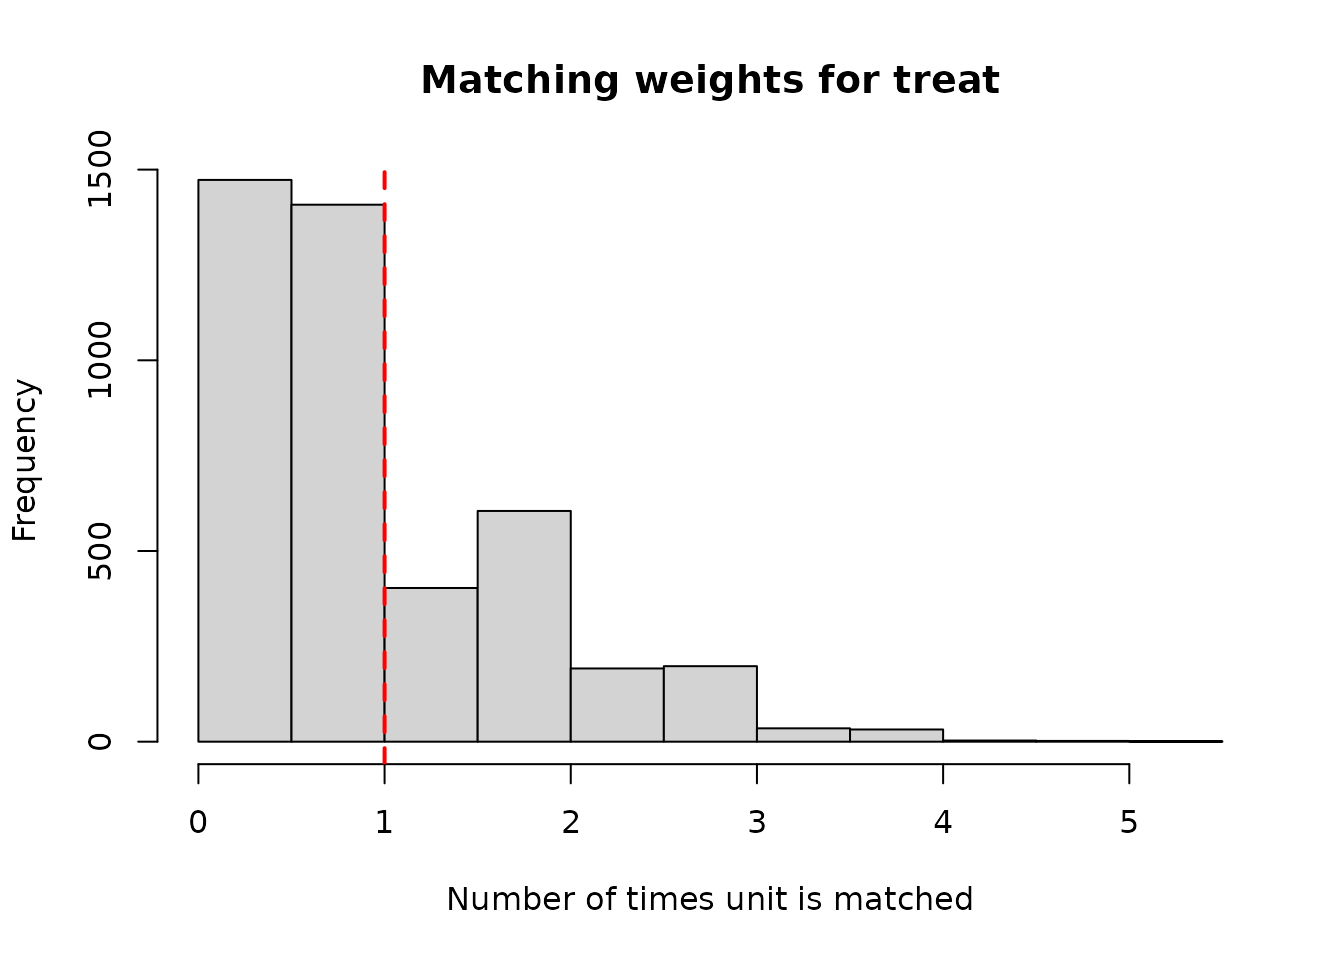
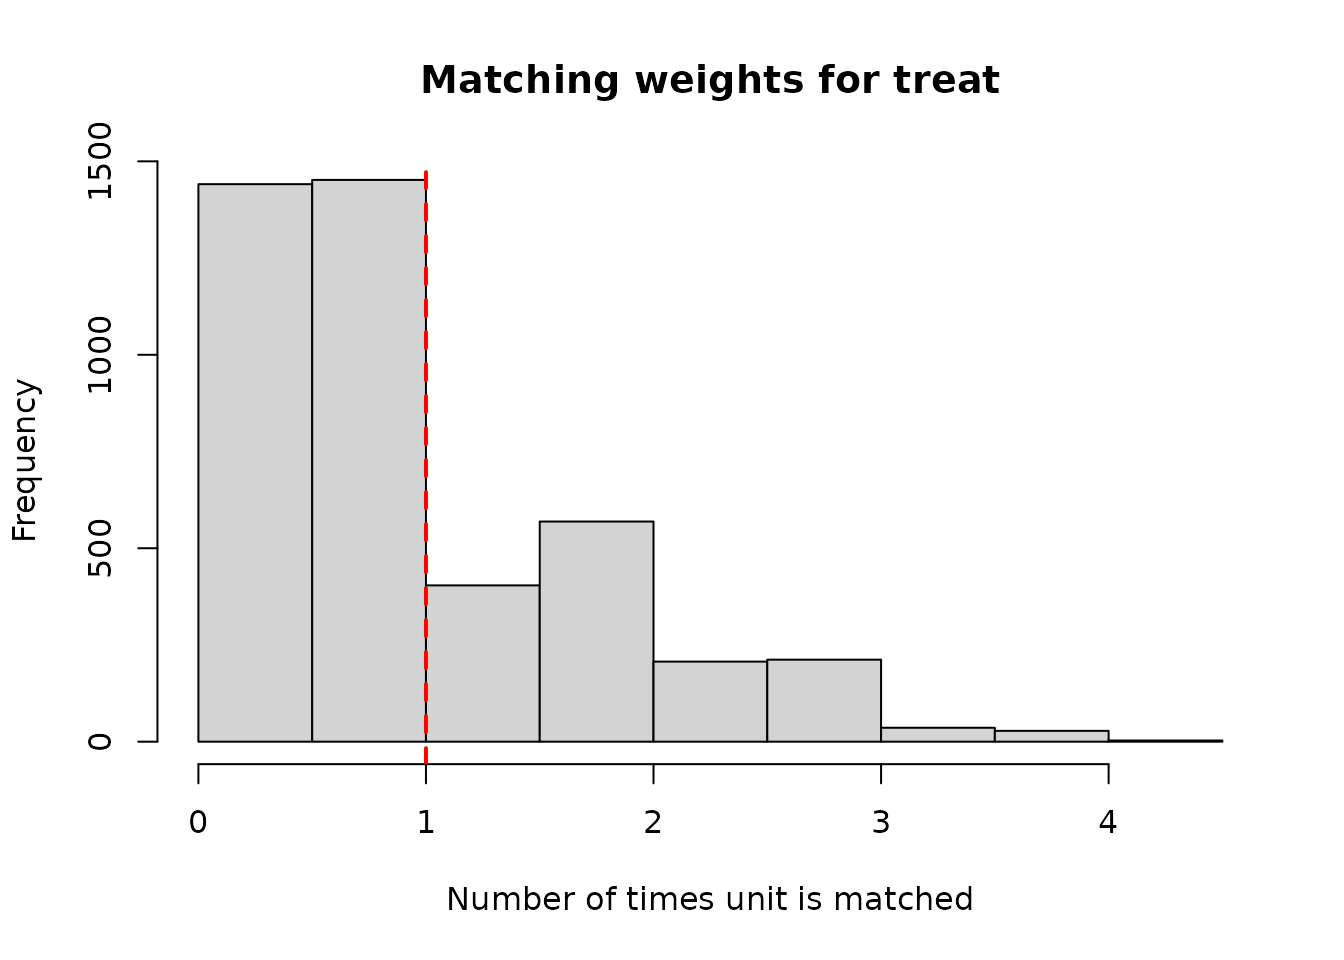
Built site for DirectEffects: 0.2.9000@2c09e21

diff --git a/articles/telescope_matching.html b/articles/telescope_matching.html
@@ -76,7 +76,7 @@
   <main id="main"><div class="page-header">
       <img src="../logo.png" class="logo" alt=""><h1>Telescope matching</h1>
             
-            <h4 data-toc-skip class="date">2021-12-11</h4>
+            <h4 data-toc-skip class="date">2021-12-16</h4>
       
       <small class="dont-index">Source: <a href="https://github.com/mattblackwell/DirectEffects/blob/HEAD/vignettes/articles/telescope_matching.Rmd" class="external-link"><code>vignettes/articles/telescope_matching.Rmd</code></a></small>
       <div class="d-none name"><code>telescope_matching.Rmd</code></div>
@@ -179,38 +179,38 @@ ACDE = E[Y_i(1, 0) - Y_i(0,0)]
 <span class="co">## </span>
 <span class="co">## Matching summary:</span>
 <span class="co">##          Term Matching Ratio L:1 N == 1 N == 0 Matched == 1 Matched == 0</span>
-<span class="co">## 1       treat                  3   2801   1551         2275         1547</span>
-<span class="co">## 2 work2year2q                  3   2559   1793         1376         1515</span>
+<span class="co">## 1       treat                  3   2801   1551         2265         1545</span>
+<span class="co">## 2 work2year2q                  3   2559   1793         1363         1521</span>
 <span class="co">## </span>
 <span class="co">## </span>
 <span class="co">## Summary of units matching contributions:</span>
 <span class="co">##                   Min.   1st Qu.    Median Mean  3rd Qu.       Max.</span>
-<span class="co">## treat                0 0.3333333 0.6666667    1 1.333333   5.333333</span>
-<span class="co">## treat:work2year2q    0 0.0000000 0.3333333    1 1.000000 120.555556</span>
-<span class="co">## work2year2q          0 0.0000000 0.3333333    1 1.333333  69.000000</span>
+<span class="co">## treat                0 0.3333333 0.6666667    1 1.333333   4.333333</span>
+<span class="co">## treat:work2year2q    0 0.0000000 0.3333333    1 1.000000 115.666667</span>
+<span class="co">## work2year2q          0 0.0000000 0.3333333    1 1.333333  75.666667</span>
 <span class="co">## </span>
 <span class="co">## </span>
 <span class="co">## Estimated controlled direct effects of treat:</span>
 <span class="co">##                   work2year2q Estimate Estimate (no BC) Std. Err.</span>
-<span class="co">## (1, 0) vs. (0, 0)           0 -0.09081         -0.08137   0.05101</span>
-<span class="co">## (1, 1) vs. (0, 1)           1  0.02167          0.02162   0.02260</span></code></pre>
+<span class="co">## (1, 0) vs. (0, 0)           0 -0.10315         -0.09385   0.05207</span>
+<span class="co">## (1, 1) vs. (0, 1)           1  0.04509          0.04506   0.02223</span></code></pre>
 <div class="sourceCode" id="cb11"><pre class="downlit sourceCode r">
 <code class="sourceCode R"><span class="co"># The coefficients + SE can be accessed directly as well</span>
 <span class="va">tm_out</span><span class="op">$</span><span class="va">tau</span> <span class="co"># Point estimate</span></code></pre></div>
-<pre><code><span class="co">## [1] -0.09081093  0.02166866</span></code></pre>
+<pre><code><span class="co">## [1] -0.1031497  0.0450908</span></code></pre>
 <div class="sourceCode" id="cb13"><pre class="downlit sourceCode r">
 <code class="sourceCode R"><span class="va">tm_out</span><span class="op">$</span><span class="va">tau_se</span> <span class="co">#Standard error</span></code></pre></div>
-<pre><code><span class="co">## [1] 0.05100768 0.02259839</span></code></pre>
+<pre><code><span class="co">## [1] 0.0520653 0.0222314</span></code></pre>
 <p>Additional diagnostics can be conducted by calling the <code><a href="../reference/balance.tmatch.html">balance.tmatch()</a></code> function on the returned <code>tmatch</code> object to assess the change in pre-/post-matching covariate balance in both the first and second stages.</p>
 <div class="sourceCode" id="cb15"><pre class="downlit sourceCode r">
 <code class="sourceCode R"><span class="co">## Assess mediator balance on selected pre- and post- treatment covariates</span>
 <span class="fu"><a href="../reference/balance.tmatch.html">balance.tmatch</a></span><span class="op">(</span><span class="va">tm_out</span>, vars <span class="op">=</span> <span class="va">work2year2q</span> <span class="op">~</span> <span class="va">schobef</span> <span class="op">+</span> <span class="va">emplq4</span>,
                data <span class="op">=</span> <span class="va">jobcorps_female</span><span class="op">)</span></code></pre></div>
 <pre><code><span class="co">##         variable  before_0  before_1   after_0   after_1 before_sd  before_diff</span>
-<span class="co">## schobef  schobef 0.6352482 0.6287612 0.7046569 0.6314338 0.4824714 -0.006486953</span>
+<span class="co">## schobef  schobef 0.6352482 0.6287612 0.7045803 0.6314338 0.4824714 -0.006486953</span>
 <span class="co">## emplq4    emplq4 0.1996654 0.7198124 0.4774050 0.5056679 0.5000270  0.520147061</span>
 <span class="co">##         before_std_diff  after_diff after_std_diff</span>
-<span class="co">## schobef     -0.01344526 -0.07322304    -0.15176659</span>
+<span class="co">## schobef     -0.01344526 -0.07314645    -0.15160784</span>
 <span class="co">## emplq4       1.04023787  0.02826287     0.05652268</span></code></pre>
 <div class="sourceCode" id="cb17"><pre class="downlit sourceCode r">
 <code class="sourceCode R"><span class="co">## Assess treatment balance on selected pre-treatment covariates</span>
@@ -218,10 +218,10 @@ ACDE = E[Y_i(1, 0) - Y_i(0,0)]
                data <span class="op">=</span> <span class="va">jobcorps_female</span><span class="op">)</span></code></pre></div>
 <pre><code><span class="co">##              variable   before_0   before_1    after_0    after_1 before_sd</span>
 <span class="co">## trainyrbef trainyrbef 0.01676338 0.01713674 0.01700368 0.01700368 0.1292996</span>
-<span class="co">## hhsize         hhsize 4.54094133 4.53802213 4.56142770 4.52581189 2.2087850</span>
-<span class="co">##              before_diff before_std_diff  after_diff after_std_diff</span>
-<span class="co">## trainyrbef  0.0003733584     0.002887544  0.00000000     0.00000000</span>
-<span class="co">## hhsize     -0.0029191932    -0.001321629 -0.03561581    -0.01612462</span></code></pre>
+<span class="co">## hhsize         hhsize 4.54094133 4.53802213 4.50222120 4.53040748 2.2087850</span>
+<span class="co">##              before_diff before_std_diff after_diff after_std_diff</span>
+<span class="co">## trainyrbef  0.0003733584     0.002887544 0.00000000     0.00000000</span>
+<span class="co">## hhsize     -0.0029191932    -0.001321629 0.02818627     0.01276099</span></code></pre>
 <p>Calling the <code><a href="../reference/plotDiag.tmatch.html">plotDiag.tmatch()</a></code> function will return a histogram of the number of times each unit is used as a match (<span class="math inline">\(K/L\)</span>) in either the first (mediator) stage or the second (treatment) stage.</p>
 <div class="sourceCode" id="cb19"><pre class="downlit sourceCode r">
 <code class="sourceCode R"><span class="co"># Number of times each unit is used as a match in the mediator (first) stage</span>

diff --git a/articles/DirectEffects.html b/articles/DirectEffects.html
@@ -76,7 +76,7 @@
   <main id="main"><div class="page-header">
       <img src="../logo.png" class="logo" alt=""><h1>Estimating controlled direct effects</h1>
             
-            <h4 data-toc-skip class="date">2021-12-11</h4>
+            <h4 data-toc-skip class="date">2021-12-16</h4>
       
       <small class="dont-index">Source: <a href="https://github.com/mattblackwell/DirectEffects/blob/HEAD/vignettes/DirectEffects.Rmd" class="external-link"><code>vignettes/DirectEffects.Rmd</code></a></small>
       <div class="d-none name"><code>DirectEffects.Rmd</code></div>
@@ -217,14 +217,14 @@
 <span class="co">## Summary of bootstrapped coefficients: </span>
 <span class="co">## </span>
 <span class="co">##                           Estimate Std. Err.   t value     2.5 %  97.5 %</span>
-<span class="co">## (Intercept)               12.70630   4.35914   2.91486   4.18749 19.9904</span>
-<span class="co">## plow                      -5.01258   2.56602  -1.95344 -10.53562 -0.3246</span>
-<span class="co">## agricultural_suitability   4.48282   3.39448   1.32062  -1.74422 11.5729</span>
-<span class="co">## tropical_climate          -2.38878   2.40856  -0.99179  -7.24204  2.0735</span>
-<span class="co">## large_animals             -1.05169   4.46683  -0.23544 -10.21089  7.0735</span>
-<span class="co">## political_hierarchies      0.50232   1.09078   0.46051  -1.72529  2.7651</span>
-<span class="co">## economic_complexity       -0.16562   0.56206  -0.29467  -1.21108  0.9589</span>
-<span class="co">## rugged                    -0.34488   0.53919  -0.63963  -1.35942  0.7724</span></code></pre>
+<span class="co">## (Intercept)               12.27858   4.82523   2.54466   2.78766 22.0224</span>
+<span class="co">## plow                      -4.97308   2.73080  -1.82111 -10.61292 -0.3011</span>
+<span class="co">## agricultural_suitability   4.31558   3.29423   1.31004  -2.48535 10.8346</span>
+<span class="co">## tropical_climate          -1.96321   2.46580  -0.79617  -6.04741  3.0181</span>
+<span class="co">## large_animals             -1.01971   4.70244  -0.21685 -10.12899  7.4706</span>
+<span class="co">## political_hierarchies      0.61005   1.18489   0.51486  -1.53751  2.9068</span>
+<span class="co">## economic_complexity       -0.19138   0.54255  -0.35274  -1.31853  0.8808</span>
+<span class="co">## rugged                    -0.29583   0.49261  -0.60053  -1.22581  0.7167</span></code></pre>
 <p>The coefficient on the treatment variable (here, <code>plow</code>), is the estimate of the ACDE. The results show a negative ACDE of plows—in other words, the effect of the plough is negative for fixed income levels. This controlled direct effect is larger in magnitude than the estimated the total effect:</p>
 <p><img src="DirectEffects_files/figure-html/unnamed-chunk-9-1.png" width="672" style="display: block; margin: auto;"></p>
 </div>

diff --git a/reference/boots_g.html b/reference/boots_g.html
@@ -93,12 +93,12 @@ the model with bootstrap samples.</p>
 <span class="r-out co"><span class="r-pr">#&gt;</span> Summary of bootstrapped coefficients: </span>
 <span class="r-out co"><span class="r-pr">#&gt;</span> </span>
 <span class="r-out co"><span class="r-pr">#&gt;</span>                          Estimate Std. Err.  t value    2.5 %  97.5 %</span>
-<span class="r-out co"><span class="r-pr">#&gt;</span> (Intercept)              13.35772   4.56655  2.92512  4.49134 22.3484</span>
-<span class="r-out co"><span class="r-pr">#&gt;</span> plow                     -4.47022   1.91051 -2.33980 -8.54294 -0.9291</span>
-<span class="r-out co"><span class="r-pr">#&gt;</span> agricultural_suitability  4.38691   2.46162  1.78212 -0.69932  9.1942</span>
-<span class="r-out co"><span class="r-pr">#&gt;</span> tropical_climate         -2.91627   2.24483 -1.29911 -7.11000  1.6982</span>
-<span class="r-out co"><span class="r-pr">#&gt;</span> large_animals            -0.93166   4.17992 -0.22289 -9.41222  7.0015</span>
-<span class="r-out co"><span class="r-pr">#&gt;</span> rugged                   -0.33884   0.50436 -0.67182 -1.31202  0.7025</span>
+<span class="r-out co"><span class="r-pr">#&gt;</span> (Intercept)              13.35072   4.63838  2.87831  4.69066 23.0846</span>
+<span class="r-out co"><span class="r-pr">#&gt;</span> plow                     -4.32222   1.86078 -2.32280 -8.22440 -0.6883</span>
+<span class="r-out co"><span class="r-pr">#&gt;</span> agricultural_suitability  4.22514   2.49398  1.69413 -0.85807  8.8719</span>
+<span class="r-out co"><span class="r-pr">#&gt;</span> tropical_climate         -2.78137   2.40155 -1.15816 -7.34359  1.9837</span>
+<span class="r-out co"><span class="r-pr">#&gt;</span> large_animals            -0.97437   4.06823 -0.23951 -9.22027  6.1955</span>
+<span class="r-out co"><span class="r-pr">#&gt;</span> rugged                   -0.35605   0.50434 -0.70598 -1.29859  0.5995</span>
 <span class="r-out co"><span class="r-pr">#&gt;</span> </span>
 <span class="r-in"><span class="co"># }</span></span>
 </code></pre></div>

diff --git a/reference/boots_tm.html b/reference/boots_tm.html
@@ -109,9 +109,9 @@ ACDEs in <code>obj$tau</code>.</p>
 <span class="r-in"><span class="va">out.boots</span> <span class="op">&lt;-</span> <span class="fu">boots_tm</span><span class="op">(</span><span class="va">tm_out</span><span class="op">)</span></span>
 <span class="r-in"></span>
 <span class="r-in"><span class="va">out.boots</span></span>
-<span class="r-out co"><span class="r-pr">#&gt;</span>        ci_low     ci_high</span>
-<span class="r-out co"><span class="r-pr">#&gt;</span> 1 -0.19798332 0.004981737</span>
-<span class="r-out co"><span class="r-pr">#&gt;</span> 2 -0.01417089 0.070552045</span>
+<span class="r-out co"><span class="r-pr">#&gt;</span>         ci_low     ci_high</span>
+<span class="r-out co"><span class="r-pr">#&gt;</span> 1 -0.205889053 -0.00892111</span>
+<span class="r-out co"><span class="r-pr">#&gt;</span> 2 -0.008974052  0.07411850</span>
 <span class="r-in"><span class="co"># }</span></span>
 </code></pre></div>
     </div>
